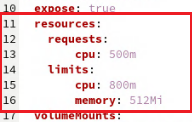
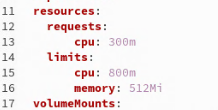
Adjust dep2

Changed region(s): [[0.0, 0.0, 1.0, 0.9818]]

diff --git a/ILS_README.md b/ILS_README.md
@@ -597,7 +597,7 @@ Start from scratch without any deployment:
 
        resources:
            requests:
-               cpu: 500m
+               cpu: 300m
            limits:
                cpu: 800m
                memory: 512Mi
@@ -660,25 +660,24 @@ The current deployment assumes that the application requires Liberty Base entitl
 
 2. Let's create a second application and deployment, this time for Liberty Core.
  
-    1. To not exceed the number of CPUs in the OCP environment, reduce the number of replica for dev.
-
-           cd ~/Student/deploy
-           sed -i "s|replicas: 5|replicas: 3|g" dev/application-cr.yaml
-           oc apply -n apps-pbw -f dev/application-cr.yaml
-
-    2. Duplicate the existing deployment yaml files
+    1. Duplicate the existing deployment yaml files
 
             cd ~/Student/deploy
             cp -r dev stage
 
-    3. For the stage environment, change the deployment name
+    2. For the stage environment, change the deployment name
 
            sed -i '0,/name: plantsbywebsphereee6/s/name: plantsbywebsphereee6/name: plantsbywebsphereee6s/' stage/application-cr.yaml
 
-    4. Adjust the application-cr.yaml to use Liberty Core only.
+    3. Adjust the application-cr.yaml to use Liberty Core only.
 
            sed -i "s|edition: IBM WebSphere Application Server|edition: IBM WebSphere Application Server Liberty Core|g" stage/application-cr.yaml
-       
+
+    4. Change the number of replica for stage from 5 to 10.
+
+           cd ~/Student/deploy
+           sed -i "s|replicas: 5|replicas: 10|g" stage/application-cr.yaml
+
     5. Review the changes
 
            cat stage/application-cr.yaml
